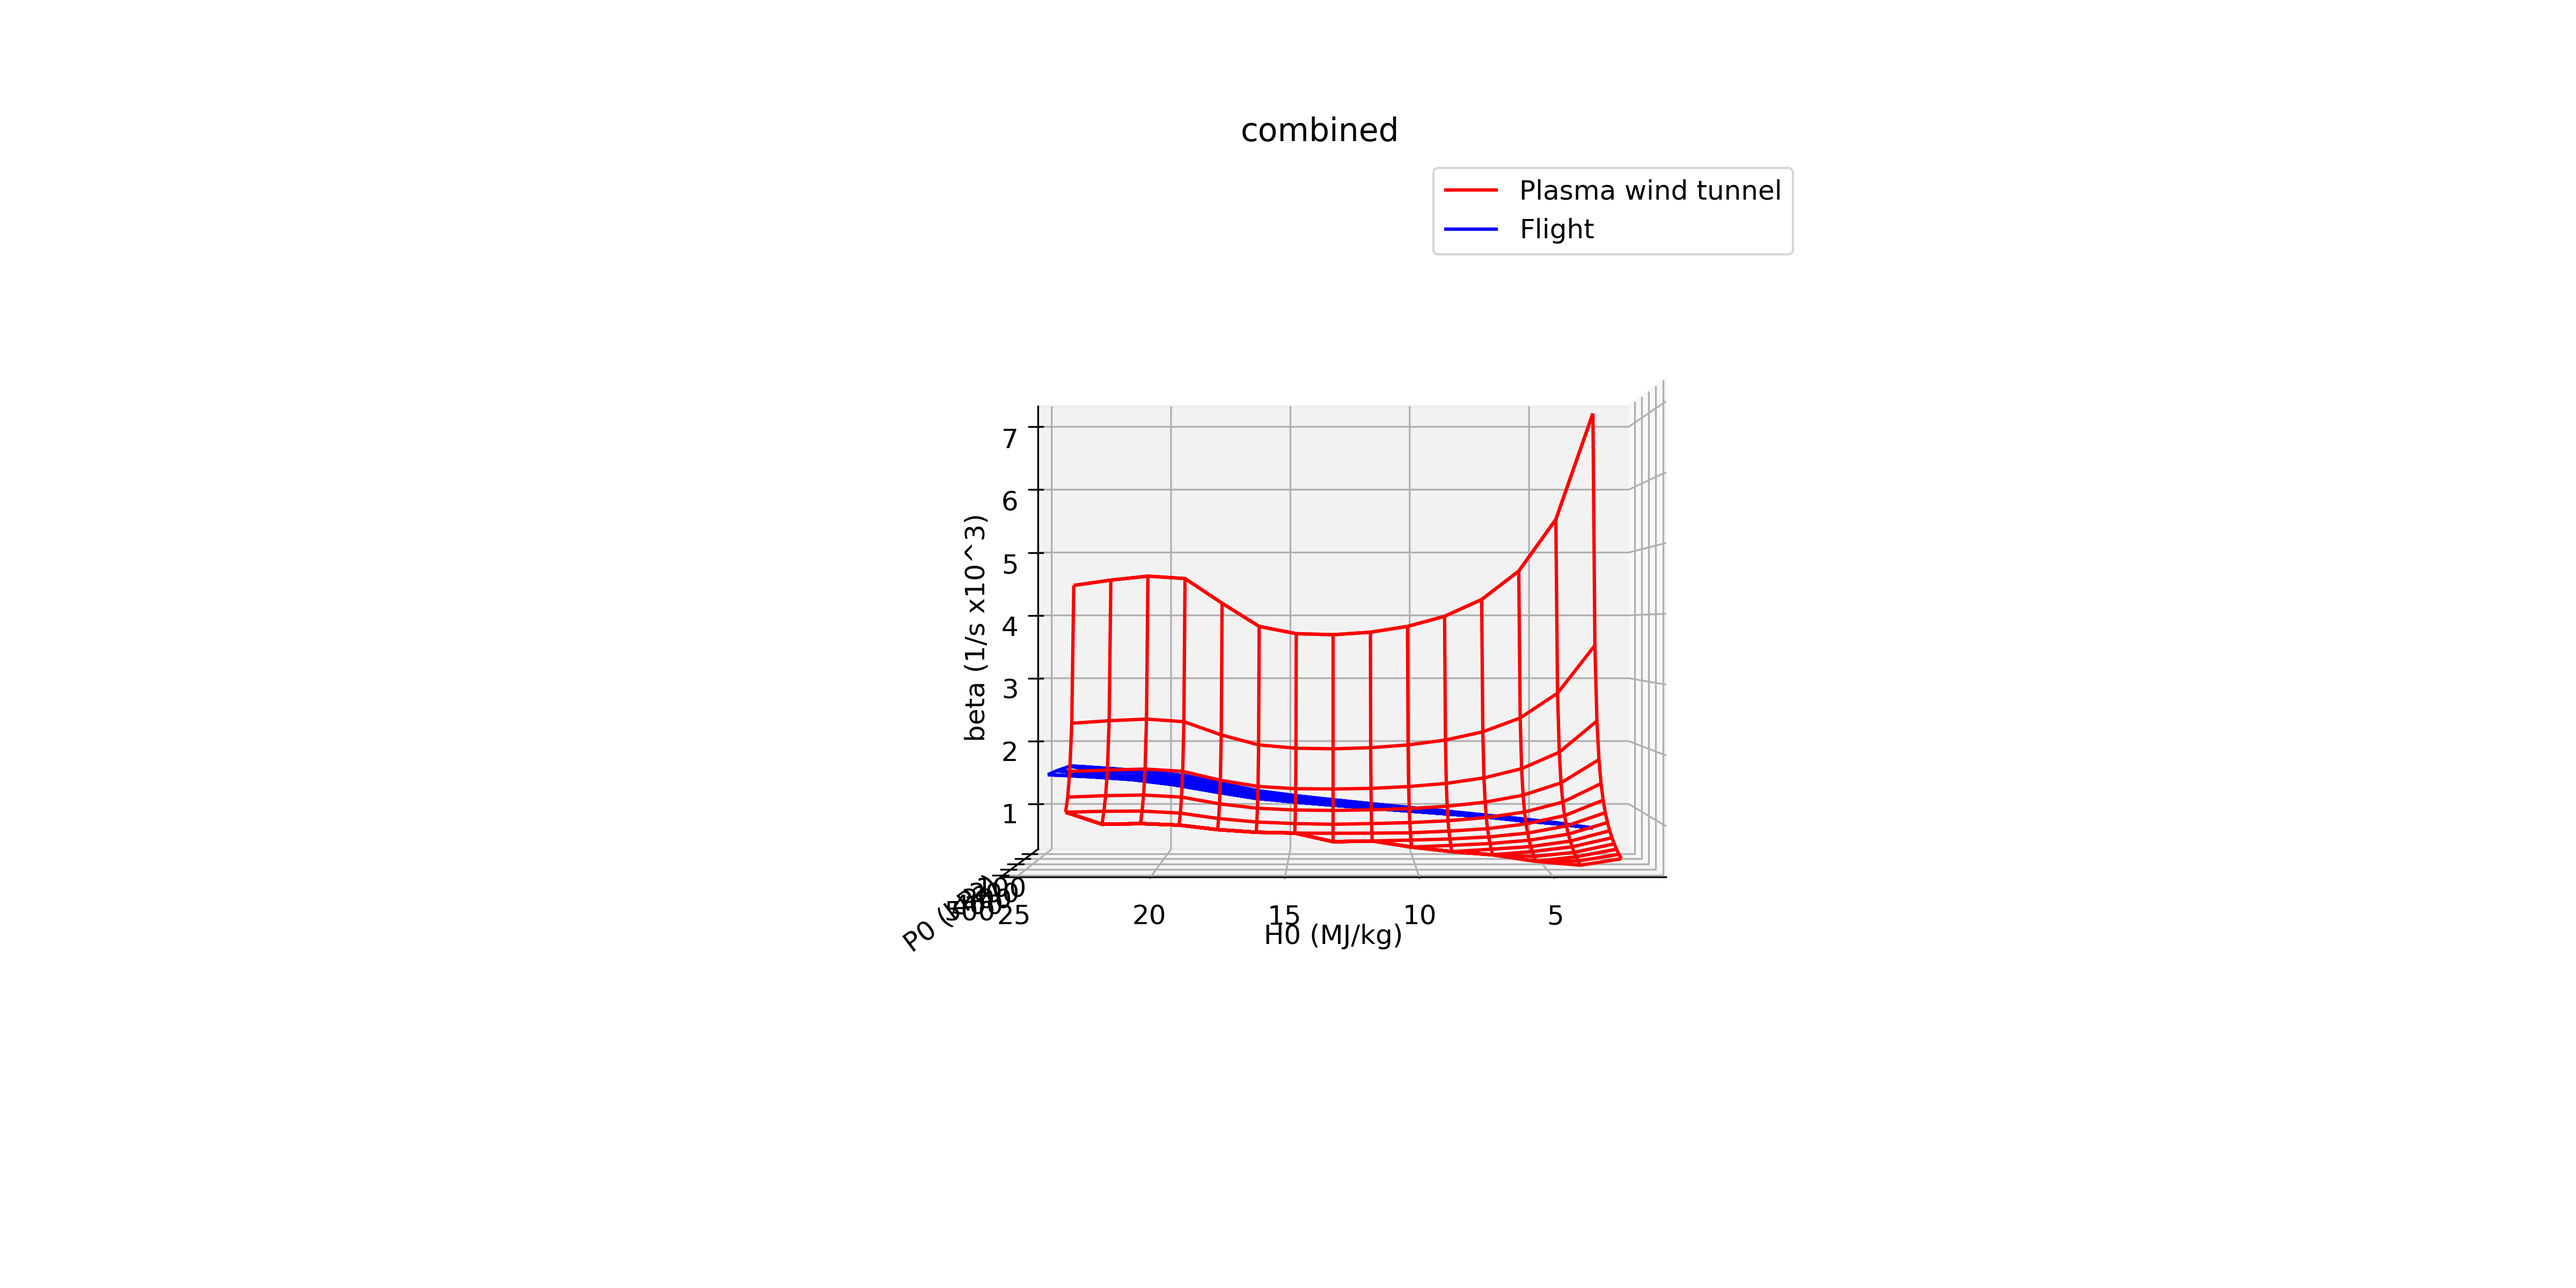
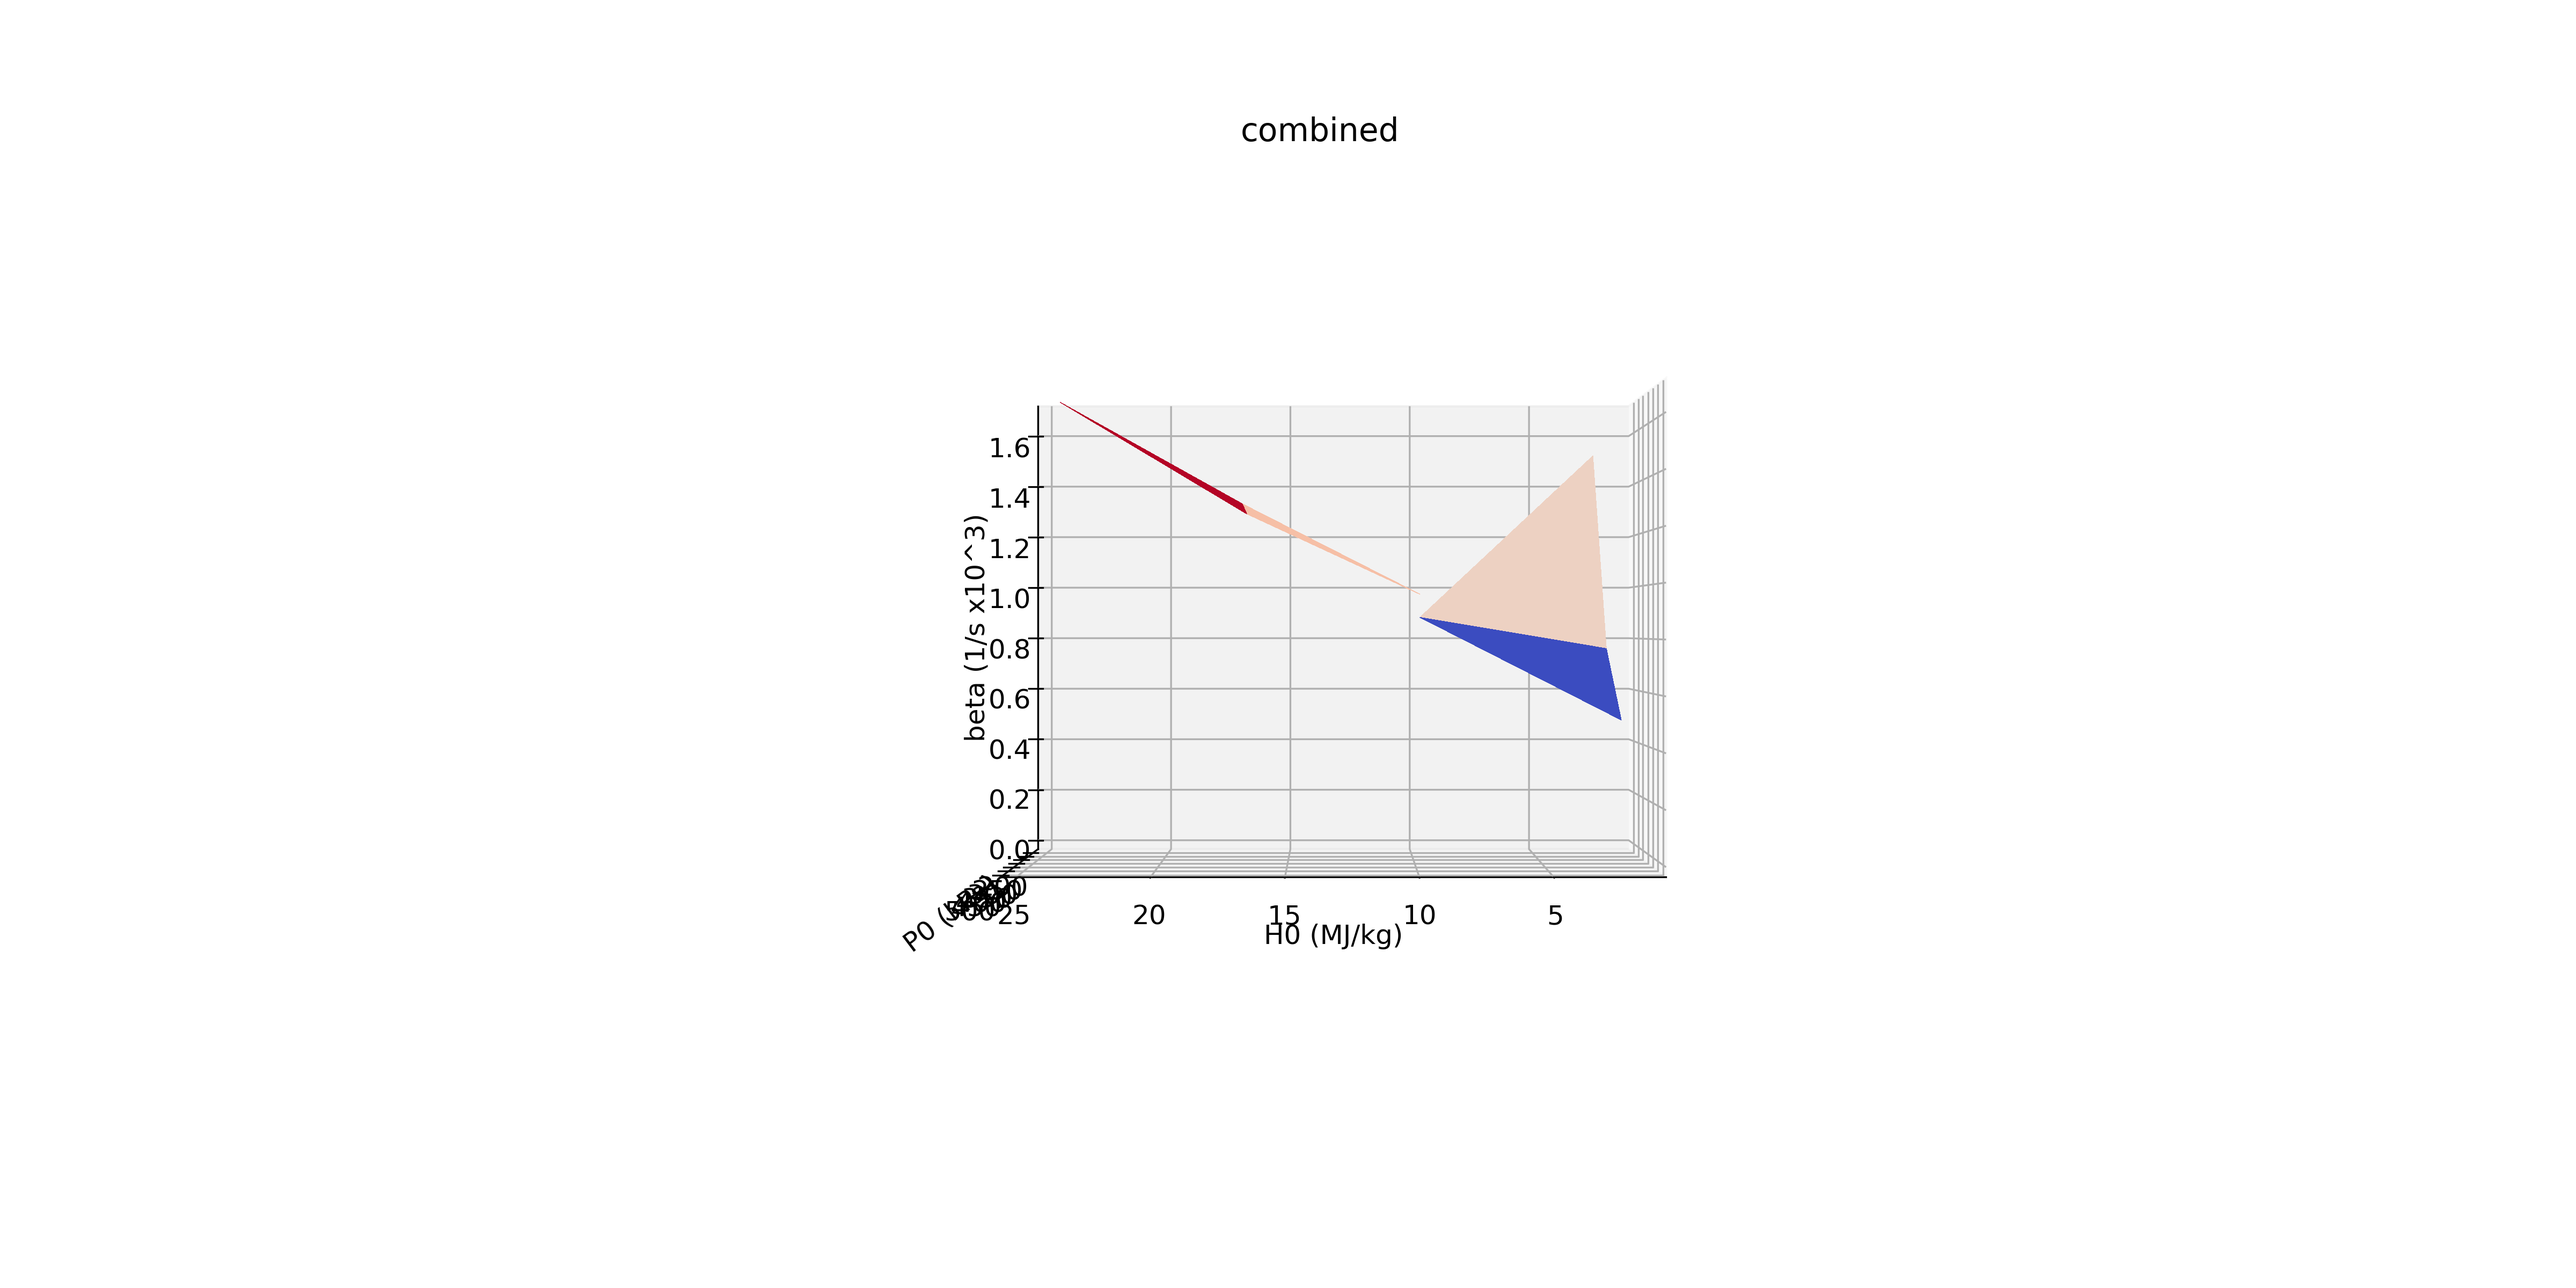
various

diff --git a/sub&supersonic_nozzle.py b/sub&supersonic_nozzle.py
@@ -11,11 +11,13 @@ import numpy as np
 import cantera as ct
 import sympy as sympy
 import scipy as scipy
+# from mpl_toolkits import Axes3D
+from scipy.interpolate import RectBivariateSpline
 from sympy import symbols, Eq, solve
 from scipy import interpolate
 from scipy.optimize import fsolve, root
 from sdtoolbox import postshock, stagnation
-from sdtoolbox.postshock import PostShock_eq
+from sdtoolbox.postshock import PostShock_eq, PostShock_fr
 from sdtoolbox.stagnation import stgsolve
 from matplotlib import pyplot as plt
 from matplotlib import cm
@@ -88,7 +90,9 @@ def Nozzle_selection(data, R_jet):
 
 def stagnation_velocity_gradient(Ue,R_jet,R_model):
     L = R_model/R_jet
-    beta = (Ue/R_model)*(1/(2-L-1.68*(L-1)**2-1.28*(L-1)**3))
+    beta = (Ue/R_model)*(1/(2-L-1.68*(L-1)**2-1.28*(L-1)**3)) 
+
+    
     return beta 
 
 def altitude_from_density_long2019(density):
@@ -283,7 +287,7 @@ def beta_curve_PWK(mdot_range,P_arc,P0_range,R_jet,R_model,resolution):
             except:
                 beta_square[count1][count2]=0
             number_done = number_done + 1
-            print(str(100*number_done/number_of_points)+"% through flight calcs")
+            print(str(100*number_done/number_of_points)+"% through ground calcs")
     
     P0, mdot =np.meshgrid(P0_linspace,mdot_linspace)
     H_add = (0.5*P_arc/mdot)
@@ -395,9 +399,11 @@ def compare_beta(resolution):
 
     ax = plt.axes(projection='3d')
     # ax.plot_wireframe(H_add/(10**6), P0/(10**3), beta_square)
-    surf = ax.plot_wireframe(H0_grid_PWK/(10**6), P0_grid_PWK/(10**3), beta_square_PWK/(10**3), color = "red")
-    surf = ax.plot_wireframe(H0_grid_flight/(10**6), P0_grid_flight/(10**3), beta_square_flight/(10**3), color = 'blue')
-    plt.legend(["Plasma wind tunnel","Flight"])
+    # surf = ax.plot_wireframe(H0_grid_PWK/(10**6), P0_grid_PWK/(10**3), beta_square_PWK/(10**3), color = "red")
+    # surf = ax.plot_wireframe(H0_grid_flight/(10**6), P0_grid_flight/(10**3), beta_square_flight/(10**3), color = 'blue')
+    surf = ax.plot_surface(H0_grid_PWK/(10**6), P0_grid_PWK/(10**3), beta_square_PWK/(10**3), cmap=cm.coolwarm, linewidth=1, antialiased=False, rcount=200, ccount=200)
+    surf = ax.plot_surface(H0_grid_flight/(10**6), P0_grid_flight/(10**3), beta_square_flight/(10**3), cmap=cm.coolwarm, linewidth=1, antialiased=False, rcount=200, ccount=200)
+    # plt.legend(["Plasma wind tunnel","Flight"])
     plt.gcf().set_size_inches(16, 8)
     ax.set_xlabel("H0 (MJ/kg)")
     ax.set_ylabel("P0 (kPa)")
@@ -414,12 +420,77 @@ def compare_beta(resolution):
     plt.savefig('test5.png', dpi=300)
     ax.view_init(90,0)
     plt.savefig('test6.png', dpi=300)
-
     
+    return beta_square_PWK, H0_grid_PWK, P0_grid_PWK, beta_square_flight, H0_grid_flight, P0_grid_flight
+
+def interpolation_of_beta_curve(beta_square_PWK, H0_grid_PWK, P0_grid_PWK, beta_square_flight, H0_grid_flight, P0_grid_flight):
+    for i in range(len(beta_square_PWK)):
+        for j in range(len(beta_square_PWK)-1):
+            
+            # define x and ys
+            x1_PWK = P0_grid_PWK[i][j]; x2_PWK = P0_grid_PWK[i][j+1]; 
+            y1_PWK = beta_square_PWK[i][j]; y2_PWK = beta_square_PWK[i][j+1]; 
+            x1_flight = P0_grid_flight[i][j]; x2_flight = P0_grid_flight[i][j+1]; 
+            y1_flight = beta_square_flight[i][j]; y2_flight = beta_square_flight[i][j+1];  
+            
+            # check if there is intersection at this j
+            if (y1_PWK > y1_flight and y2_PWK < y2_flight) or (y1_PWK < y1_flight and y2_PWK > y2_flight):
+                # then there is intersection
+                # define the interpolation functions for each line
+                y_PWK_interpolate = scipy.interpolate.interp1d([x1_PWK,x2_PWK],[y1_PWK,y2_PWK])
+                y_flight_interpolate = scipy.interpolate.interp1d([x1_flight,x2_flight],[y1_flight,y2_flight])
+                
+                # define intersection function, i.e. where the two lines intersect, the Delta(y) is 0
+                def fun(x):
+                    return y_PWK_interpolate(x)-y_flight_interpolate(x)
+                try:
+                    y_intercept = fsolve(fun, [(x2_PWK-x1_PWK)/2])
+                    print(y_intercept)
+                except:
+                    print("intersection failed")
+                
+        
+def bivariate_interpolation(H0_square,P0_square,beta_square):
+    def Extract(lst):
+        return [item[0] for item in lst]
+    P0_1d = P0_square[0]
+    H0_1d = Extract(H0_square)
+    
+    
+    interp_spline = RectBivariateSpline(H0_1d,P0_1d,beta_square)
+    H0_interp = np.arange(5000000,25000000,100000).tolist()
+    P0_interp = np.arange(0,500000,10000).tolist()
+    
+    print(H0_interp)
+    print(P0_interp)
+    
+    print(type(H0_interp))
+    print(type(interp_spline))
+    X2, Y2 = np.meshgrid(H0_interp,P0_interp)
+    Z2 = interp_spline(P0_interp,H0_interp)
+    
+    
+    
+    # fig, ax = plt.subplots(nrows=1,ncols=1, subplot_kw={'projection' : '3D'})
+    # surf = ax.plot_wireframe(X2,Y2,Z2)
+    # plt.show()
+    
+
 
 if __name__ == "__main__":
     print(__doc__)
     #all_in_one_matching(mdot = 0.5, P_arc = 240*10**3, P0=1*10**3, R_jet=0.5, R_model=0.0245)
-    compare_beta(resolution=15)
+    
+    # uncomment for matching surfaces
+    beta_square_PWK, H0_grid_PWK, P0_grid_PWK, beta_square_flight, H0_grid_flight, P0_grid_flight = compare_beta(resolution=4)
+    
+    
+    
+    
+    #interpolation_of_beta_curve(beta_square_PWK, H0_grid_PWK, P0_grid_PWK, beta_square_flight, H0_grid_flight, P0_grid_flight)
+    
+    # beta_square_PWK, P0_grid_PWK, H0_grid_PWK, mdot_linspace, P0_linspace, H_add_linspace = beta_curve_PWK(mdot_range=[0.005,0.05], P_arc = 240*10**3, P0_range=[600,500*10**3], R_jet = 0.03, R_model = 0.0254, resolution=10)
+    
+    bivariate_interpolation(H0_grid_PWK,P0_grid_PWK,beta_square_PWK)
     ding()
 
